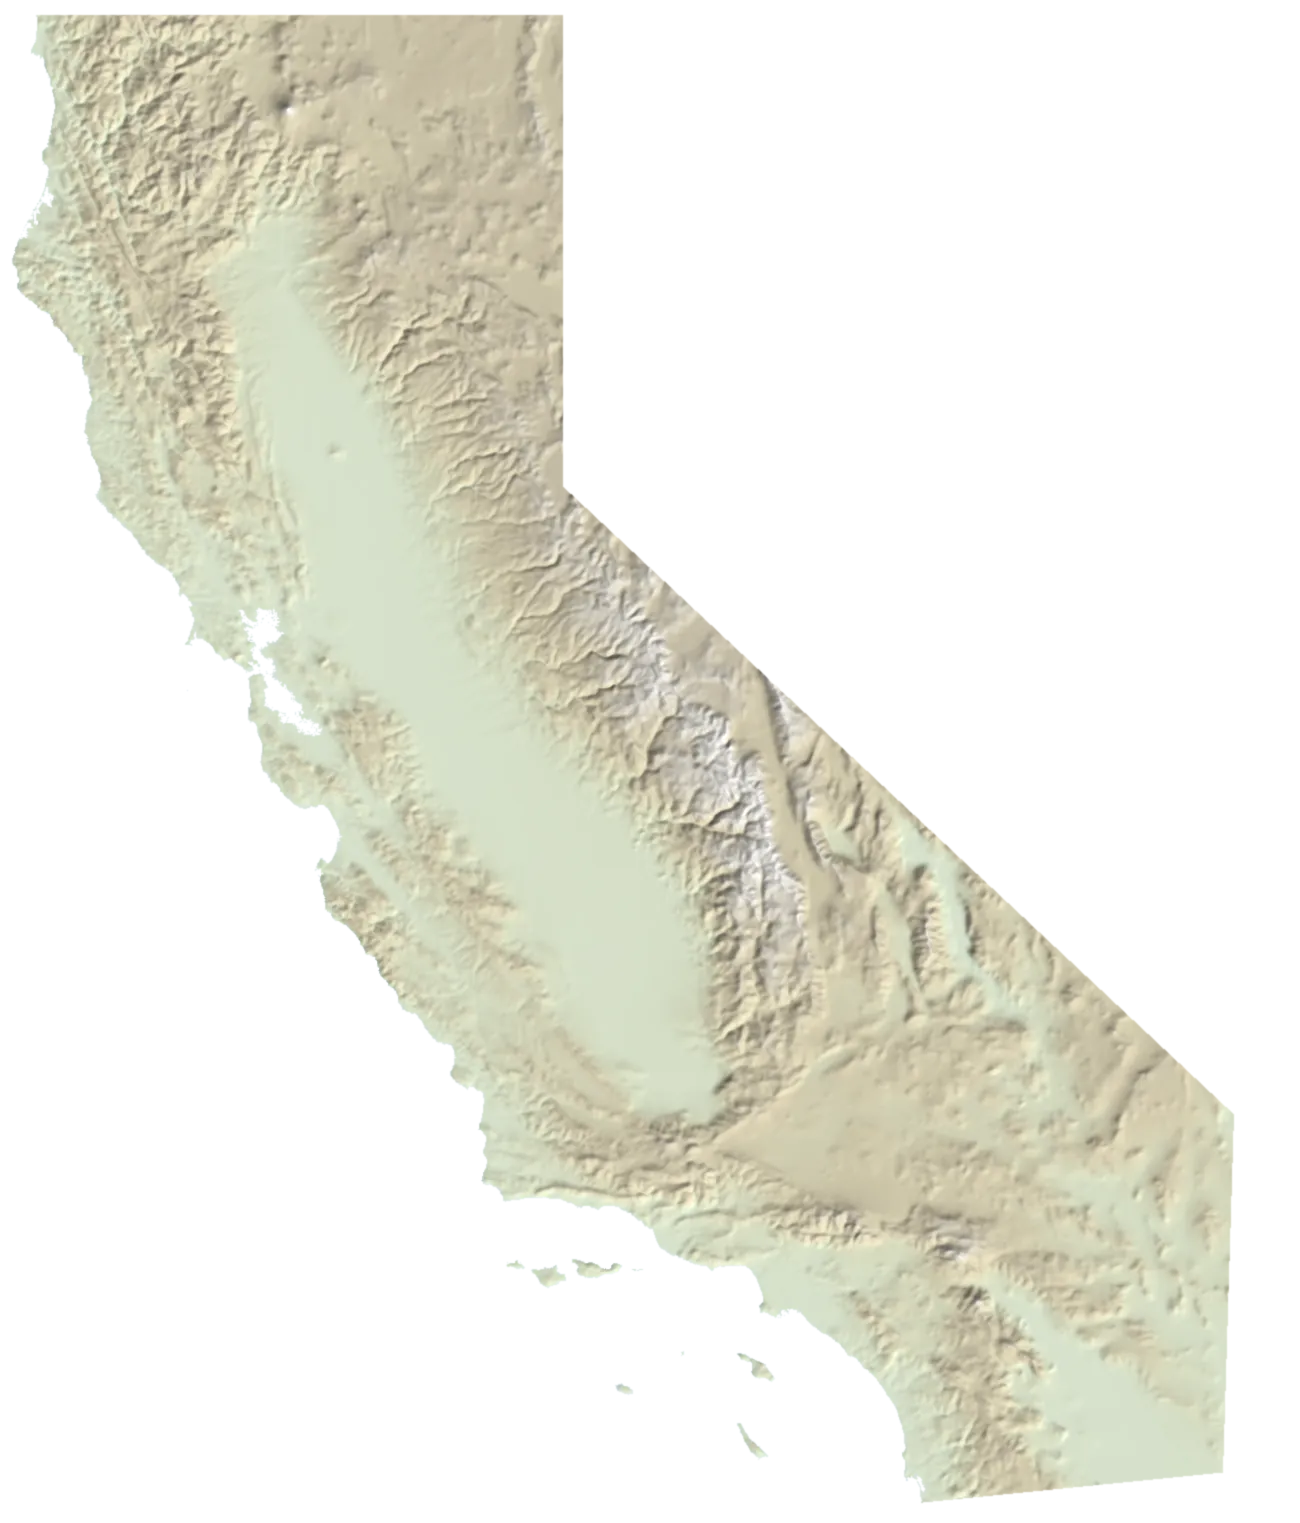
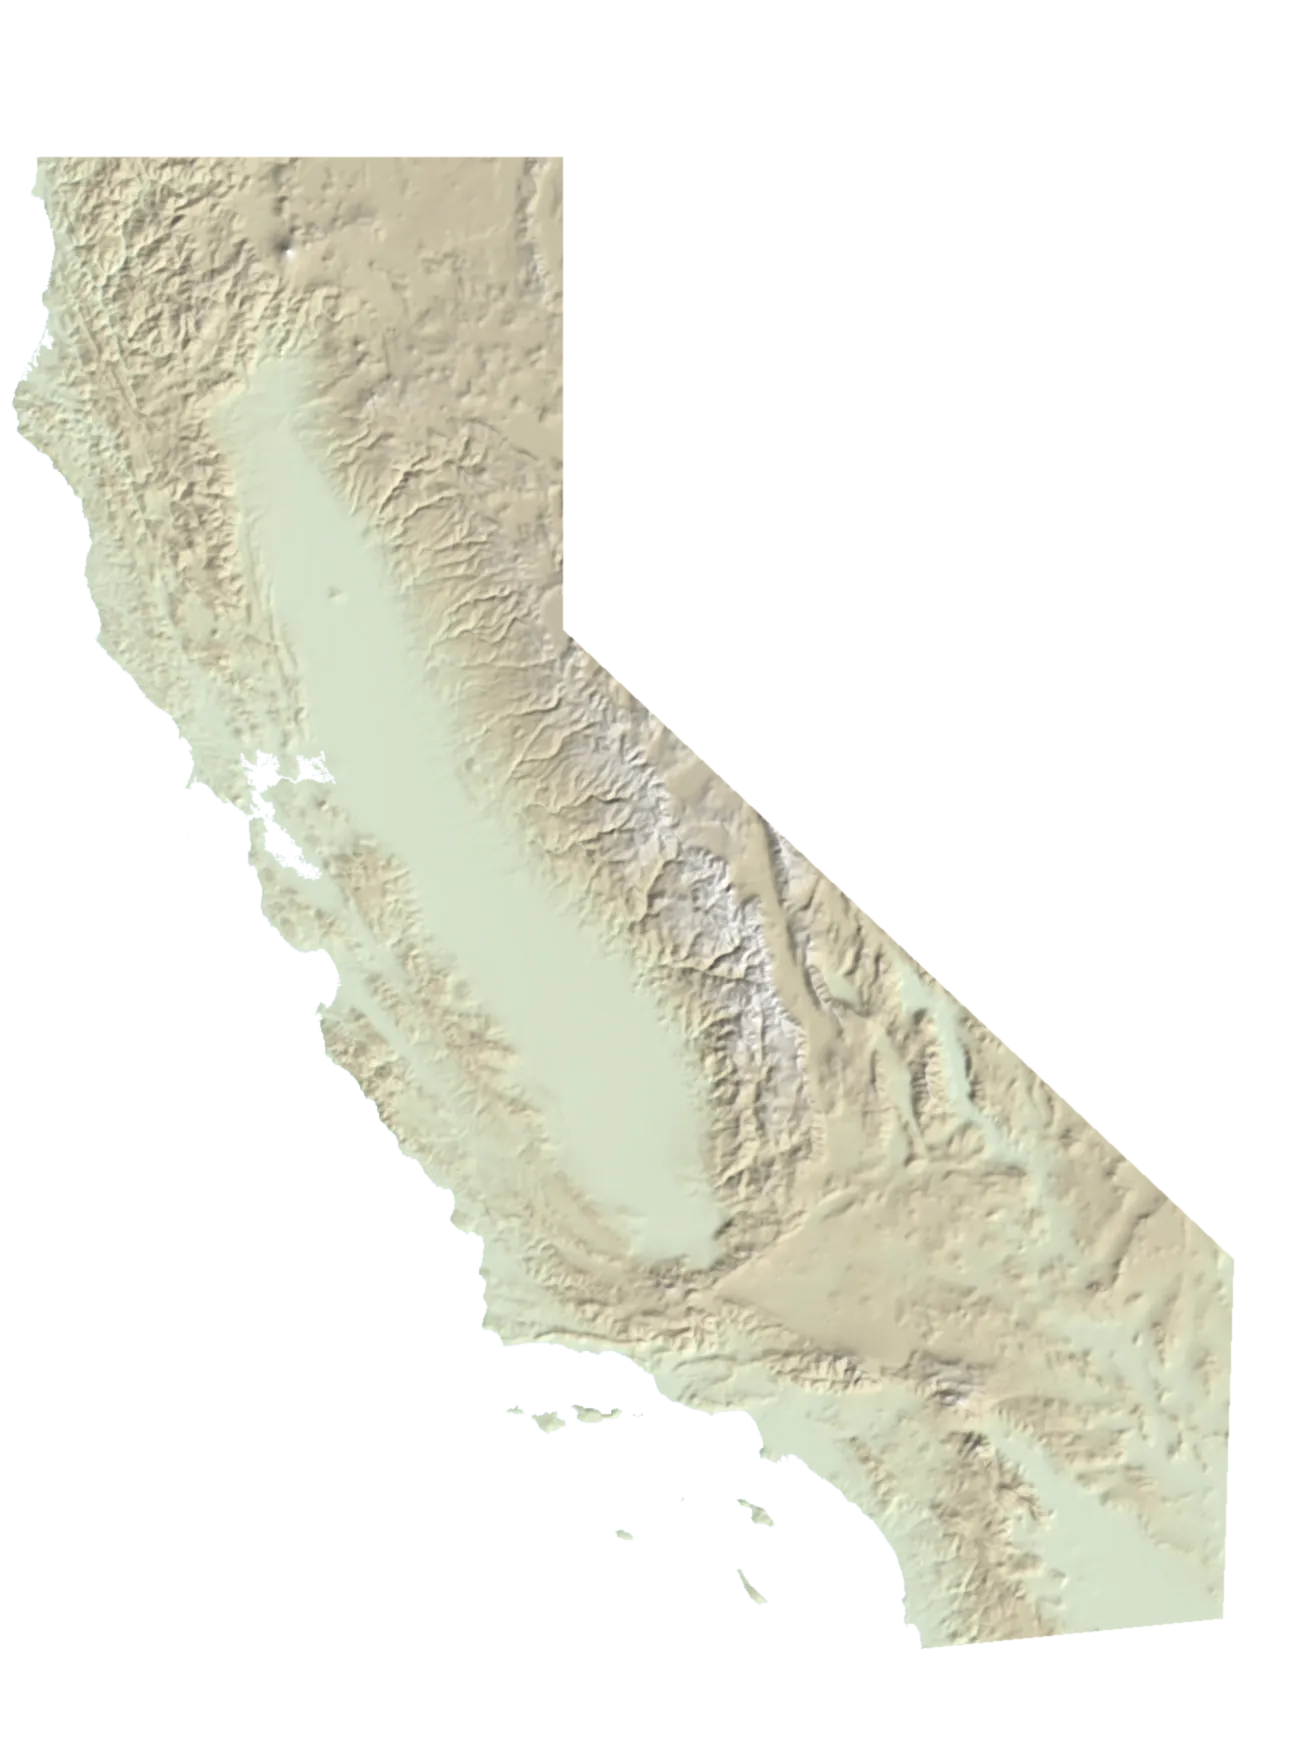
California picker: neighbours with quieter terrain and labels, crisper names, bolder regions, no title, shorter and translucent panel
Claude-Session: https://claude.ai/code/session_019ScXQ8sHsYgxna3QQGngaP

diff --git a/app/src/main/java/io/github/genesjc/microclimatefinder/ui/screens/CaliforniaRegionsMapScreen.kt b/app/src/main/java/io/github/genesjc/microclimatefinder/ui/screens/CaliforniaRegionsMapScreen.kt
@@ -1,7 +1,7 @@
 package io.github.genesjc.microclimatefinder.ui.screens
 
 import androidx.compose.foundation.BorderStroke
-import io.github.genesjc.microclimatefinder.data.local.TerrainImage
+import io.github.genesjc.microclimatefinder.data.local.StateTerrain
 import io.github.genesjc.microclimatefinder.data.local.TerrainMaps
 import kotlinx.coroutines.Dispatchers
 import kotlinx.coroutines.withContext
@@ -75,24 +75,9 @@ fun CaliforniaRegionPickerPanel(
     onClose: () -> Unit,
     modifier: Modifier = Modifier
 ) {
-    val region = remember(pendingRegionId) {
-        CaliforniaRegionalDefinitions.ALL_REGIONS.firstOrNull { it.id == pendingRegionId }
-            ?: CaliforniaRegionalDefinitions.BAY_AREA_SACRAMENTO
-    }
     Column(modifier = modifier.padding(16.dp)) {
-        Row(verticalAlignment = Alignment.CenterVertically) {
-            Column(modifier = Modifier.weight(1f)) {
-                Text(
-                    text = region.name,
-                    style = MaterialTheme.typography.titleLarge,
-                    fontWeight = FontWeight.Bold
-                )
-                Text(
-                    text = "Tap the map to choose a region",
-                    style = MaterialTheme.typography.bodySmall,
-                    color = MaterialTheme.colorScheme.onSurfaceVariant
-                )
-            }
+        // Just the close button: the regions are named on the map itself
+        Row(modifier = Modifier.fillMaxWidth(), horizontalArrangement = Arrangement.End) {
             Surface(
                 shape = CircleShape,
                 color = MaterialTheme.colorScheme.surfaceVariant,
@@ -533,10 +518,10 @@ private fun CaliforniaClassicMapCanvas(
     sizeModifier: Modifier = Modifier.height(430.dp)
 ) {
     val context = androidx.compose.ui.platform.LocalContext.current
-    val terrain by androidx.compose.runtime.produceState<TerrainImage?>(null) {
+    val terrain by androidx.compose.runtime.produceState<StateTerrain?>(null) {
         value = withContext(Dispatchers.IO) { TerrainMaps.loadState(context) }
     }
-    val tintAlpha = if (terrain != null) 0.34f else 0.72f
+    val tintAlpha = if (terrain != null) 0.58f else 0.72f
     val textMeasurer = androidx.compose.ui.text.rememberTextMeasurer()
     Box(
         modifier = Modifier
@@ -557,8 +542,8 @@ private fun CaliforniaClassicMapCanvas(
                     val h = size.height.toFloat()
                     val lonMin = -124.45f
                     val lonMax = -114.15f
-                    val latMin = 32.4f
-                    val latMax = 42.1f
+                    val latMin = 31.9f
+                    val latMax = 43.0f
                     // True shape: one scale for both axes (a degree of longitude is about 0.8 of a degree of latitude), centred
                     val k = minOf(w * 0.985f / ((lonMax - lonMin) * 0.8f), h * 0.985f / (latMax - latMin))
                     val availW = (lonMax - lonMin) * 0.8f * k
@@ -734,8 +719,8 @@ private fun CaliforniaClassicMapCanvas(
             val h = size.height
             val lonMin = -124.45f
             val lonMax = -114.15f
-            val latMin = 32.4f
-            val latMax = 42.1f
+            val latMin = 31.9f
+            val latMax = 43.0f
             // True shape: one scale for both axes (a degree of longitude is about 0.8 of a degree of latitude), centred
             val k = minOf(w * 0.985f / ((lonMax - lonMin) * 0.8f), h * 0.985f / (latMax - latMin))
             val availW = (lonMax - lonMin) * 0.8f * k
@@ -811,6 +796,7 @@ private fun CaliforniaClassicMapCanvas(
             // Pacific Ocean coastal wash
             val oceanPath = Path().apply {
                 moveTo(0f, 0f)
+                lineTo(px(-124.45f), py(43.00f))
                 lineTo(px(-124.21f), py(42.00f))
                 lineTo(px(-124.41f), py(40.44f))
                 lineTo(pCoastMendoSonoma.x, pCoastMendoSonoma.y)
@@ -828,7 +814,9 @@ private fun CaliforniaClassicMapCanvas(
                 lineTo(pCoastSanOnofre.x, pCoastSanOnofre.y)
                 lineTo(px(-117.25f), py(32.72f))
                 lineTo(px(-117.12f), py(32.53f))
-                lineTo(px(-117.12f), h)
+                lineTo(px(-117.02f), py(32.20f))
+                lineTo(px(-116.70f), py(31.90f))
+                lineTo(px(-116.65f), h)
                 lineTo(0f, h)
                 close()
             }
@@ -958,11 +946,14 @@ private fun CaliforniaClassicMapCanvas(
 
             // The land itself: shaded relief of the whole state under translucent region tints
             terrain?.let { t ->
-                drawImage(
-                    image = t.image,
-                    dstOffset = androidx.compose.ui.unit.IntOffset(px(-124.5f).toInt(), py(42.1f).toInt()),
-                    dstSize = androidx.compose.ui.unit.IntSize((availW * 10.4f / (lonMax - lonMin)).toInt(), availH.toInt())
+                val dstOffset = androidx.compose.ui.unit.IntOffset(px(-124.5f).toInt(), py(43.0f).toInt())
+                val dstSize = androidx.compose.ui.unit.IntSize(
+                    (availW * 10.4f / (lonMax - lonMin)).toInt(),
+                    (availH * 11.1f / (latMax - latMin)).toInt()
                 )
+                // The neighbours first, quieter; then California over them
+                drawImage(image = t.surround, dstOffset = dstOffset, dstSize = dstSize)
+                drawImage(image = t.state, dstOffset = dstOffset, dstSize = dstSize)
             }
 
             // Fills lock together seamlessly — richer gradient fills instead of flat washed-out tints
@@ -973,7 +964,7 @@ private fun CaliforniaClassicMapCanvas(
                 drawPath(
                     path = path,
                     brush = Brush.linearGradient(
-                        colors = listOf(color.copy(alpha = if (isSelected) 0.55f else tintAlpha).lighten(0.18f), color.copy(alpha = if (isSelected) 0.55f else tintAlpha)),
+                        colors = listOf(color.copy(alpha = if (isSelected) 0.82f else tintAlpha).lighten(0.18f), color.copy(alpha = if (isSelected) 0.82f else tintAlpha)),
                         start = Offset(bounds.left, bounds.top),
                         end = Offset(bounds.right, bounds.bottom)
                     )
@@ -1026,8 +1017,8 @@ private fun CaliforniaClassicMapCanvas(
             for ((_, path) in regionPolys) {
                 drawPath(
                     path = path,
-                    color = Color(0xFF4A3728).copy(alpha = 0.55f),
-                    style = Stroke(width = 1.3f)
+                    color = Color(0xFF3A2A1E).copy(alpha = 0.8f),
+                    style = Stroke(width = 2.4f)
                 )
             }
 
@@ -1068,17 +1059,35 @@ private fun CaliforniaClassicMapCanvas(
             }
             val regionStyle = androidx.compose.ui.text.TextStyle(
                 color = ink,
-                fontSize = 11.sp,
-                fontWeight = FontWeight.Bold,
-                textAlign = androidx.compose.ui.text.style.TextAlign.Center,
-                shadow = androidx.compose.ui.graphics.Shadow(Color.White.copy(alpha = 0.9f), blurRadius = 6f)
+                fontSize = 13.sp,
+                fontWeight = FontWeight.ExtraBold,
+                textAlign = androidx.compose.ui.text.style.TextAlign.Center
             )
-            label("Northern\nCalifornia", -122.3f, 40.9f, regionStyle)
-            label("Bay Area", -121.9f, 38.45f, regionStyle)
-            label("Central\nValley", -119.6f, 36.9f, regionStyle)
-            label("Central\nCoast", -120.9f, 35.5f, regionStyle)
-            label("Los Angeles", -117.6f, 34.45f, regionStyle)
-            label("San Diego", -116.3f, 32.95f, regionStyle)
+            // A white outline under the dark letters keeps them crisp on the terrain
+            val outlineStyle = regionStyle.copy(
+                color = Color.White.copy(alpha = 0.95f),
+                drawStyle = Stroke(width = 5f, join = androidx.compose.ui.graphics.StrokeJoin.Round)
+            )
+            fun regionLabel(text: String, lon: Float, lat: Float) {
+                label(text, lon, lat, outlineStyle)
+                label(text, lon, lat, regionStyle)
+            }
+            regionLabel("Northern\nCalifornia", -122.3f, 40.9f)
+            regionLabel("Bay Area", -122.2f, 38.45f)
+            regionLabel("Central\nValley", -119.6f, 36.9f)
+            regionLabel("Central\nCoast", -122.8f, 35.4f)
+            regionLabel("Los Angeles", -117.6f, 34.45f)
+            regionLabel("San Diego", -116.3f, 32.95f)
+            // The neighbours, quietly
+            val neighbourStyle = androidx.compose.ui.text.TextStyle(
+                color = Color(0xFF6B5636).copy(alpha = 0.75f),
+                fontSize = 10.sp,
+                fontWeight = FontWeight.SemiBold,
+                letterSpacing = 2.sp
+            )
+            label("OREGON", -121.9f, 42.55f, neighbourStyle)
+            label("IDAHO", -115.3f, 42.55f, neighbourStyle)
+            label("MEXICO", -115.9f, 32.15f, neighbourStyle)
             label(
                 "NEVADA", -116.9f, 39.3f,
                 androidx.compose.ui.text.TextStyle(

diff --git a/app/src/main/java/io/github/genesjc/microclimatefinder/domain/model/CaliforniaRegion.kt b/app/src/main/java/io/github/genesjc/microclimatefinder/domain/model/CaliforniaRegion.kt
@@ -106,7 +106,7 @@ object CaliforniaRegionalDefinitions {
         description = "World-renowned maritime upwelling zones and steep Santa Lucia coastal scarps channeling cold marine air deep into interior agricultural valleys.",
         status = RegionStatus.PLANNED_CONSTRAINTS,
         activeStationCount = 0,
-        colorHex = "#DB2777"
+        colorHex = "#EC4899"
     )
 
     val CENTRAL_VALLEY = CaliforniaRegion(
@@ -132,7 +132,7 @@ object CaliforniaRegionalDefinitions {
         description = "Expansive 400-mile flat interior basin protected by coastal ranges and the Sierra Nevada, characterized by high thermal accumulation and severe winter radiation inversions.",
         status = RegionStatus.PLANNED_CONSTRAINTS,
         activeStationCount = 0,
-        colorHex = "#C2410C"
+        colorHex = "#EA580C"
     )
 
     val BAY_AREA_SACRAMENTO = CaliforniaRegion(
@@ -158,7 +158,7 @@ object CaliforniaRegionalDefinitions {
         description = "The primary baseline transect: fully unified draggable and zoomable coordinate space covering stations from Pacific tidepools to alpine ridge tops.",
         status = RegionStatus.ACTIVE_TRANSECT,
         activeStationCount = 36,
-        colorHex = "#0E7C86"
+        colorHex = "#0D9488"
     )
 
     val NORTHERN_CALIFORNIA = CaliforniaRegion(
@@ -184,7 +184,7 @@ object CaliforniaRegionalDefinitions {
         description = "Vast, rugged territory encompassing temperate coastal rainforests, volcanic Cascade peaks, high alpine passes, and extreme rain shadow transitions.",
         status = RegionStatus.PLANNED_CONSTRAINTS,
         activeStationCount = 0,
-        colorHex = "#6D28D9"
+        colorHex = "#7C3AED"
     )
 
     val ALL_REGIONS = listOf(

diff --git a/app/src/main/java/io/github/genesjc/microclimatefinder/data/local/TerrainMaps.kt b/app/src/main/java/io/github/genesjc/microclimatefinder/data/local/TerrainMaps.kt
@@ -65,14 +65,19 @@ object TerrainMaps {
         }
     }
 
-    /** The whole state for the California picker: land inside California only, the rest transparent. */
-    val STATE_BOUNDS = GeoBounds(-124.5, -114.1, 32.4, 42.1)
+    /** The whole state for the California picker, and its neighbours drawn quieter. Their pixels are linear in lon and lat. */
+    val STATE_BOUNDS = GeoBounds(-124.5, -114.1, 31.9, 43.0)
 
-    fun loadState(context: Context): TerrainImage? = try {
-        context.assets.open("terrain/california.webp").use { BitmapFactory.decodeStream(it) }
-            ?.let { TerrainImage(it.asImageBitmap(), STATE_BOUNDS) }
+    fun loadState(context: Context): StateTerrain? = try {
+        fun decode(name: String) = context.assets.open("terrain/$name").use { BitmapFactory.decodeStream(it) }
+        val state = decode("california.webp")
+        val surround = decode("california_surround.webp")
+        if (state != null && surround != null) StateTerrain(state.asImageBitmap(), surround.asImageBitmap()) else null
     } catch (e: Exception) {
         Log.w(TAG, "No statewide terrain picture", e)
         null
     }
 }
+
+/** The California picker's terrain: land inside California, and the neighbouring land (faded). Same bounds. */
+class StateTerrain(val state: ImageBitmap, val surround: ImageBitmap)

diff --git a/app/src/main/java/io/github/genesjc/microclimatefinder/ui/components/RegionPicker.kt b/app/src/main/java/io/github/genesjc/microclimatefinder/ui/components/RegionPicker.kt
@@ -148,7 +148,10 @@ fun RegionPickerOverlay(
     val containerW = size.width.toFloat()
     val containerH = size.height.toFloat()
     val targetW = containerW * 0.92f
-    val targetH = containerH * 0.75f
+    // As tall as the picker's content needs (the map is 1.35 times as tall as it is wide), with a little
+    // room under the Confirm button, and never more than 75% of the screen
+    val contentDp = 16f + 32f + 12f + (targetW / density.density - 32f) * 1.35f + 12f + 40f + 16f + 30f
+    val targetH = minOf(containerH * 0.75f, contentDp * density.density)
     val targetX = (containerW - targetW) / 2f
     val targetY = (containerH - targetH) / 2f
     val startX = state.buttonBounds.left - origin.x
@@ -177,7 +180,7 @@ fun RegionPickerOverlay(
                     height = with(density) { lerp(state.buttonBounds.height, targetH, t).toDp() }
                 )
                 .clip(RoundedCornerShape(lerp(10f, 24f, t).dp))
-                .background(MaterialTheme.colorScheme.surface.copy(alpha = t))
+                .background(MaterialTheme.colorScheme.surface.copy(alpha = 0.5f * t))
                 // Taps inside the panel must not reach the scrim
                 .clickable(interactionSource = noRipple, indication = null) { },
             contentAlignment = Alignment.Center

diff --git a/app/src/main/java/io/github/genesjc/microclimatefinder/BuildInfo.kt b/app/src/main/java/io/github/genesjc/microclimatefinder/BuildInfo.kt
@@ -5,5 +5,5 @@ package io.github.genesjc.microclimatefinder
  * Bump the commit number with every commit, so a screenshot tells you exactly which build is running.
  */
 object BuildInfo {
-    const val LABEL = "49.29"
+    const val LABEL = "49.30"
 }
